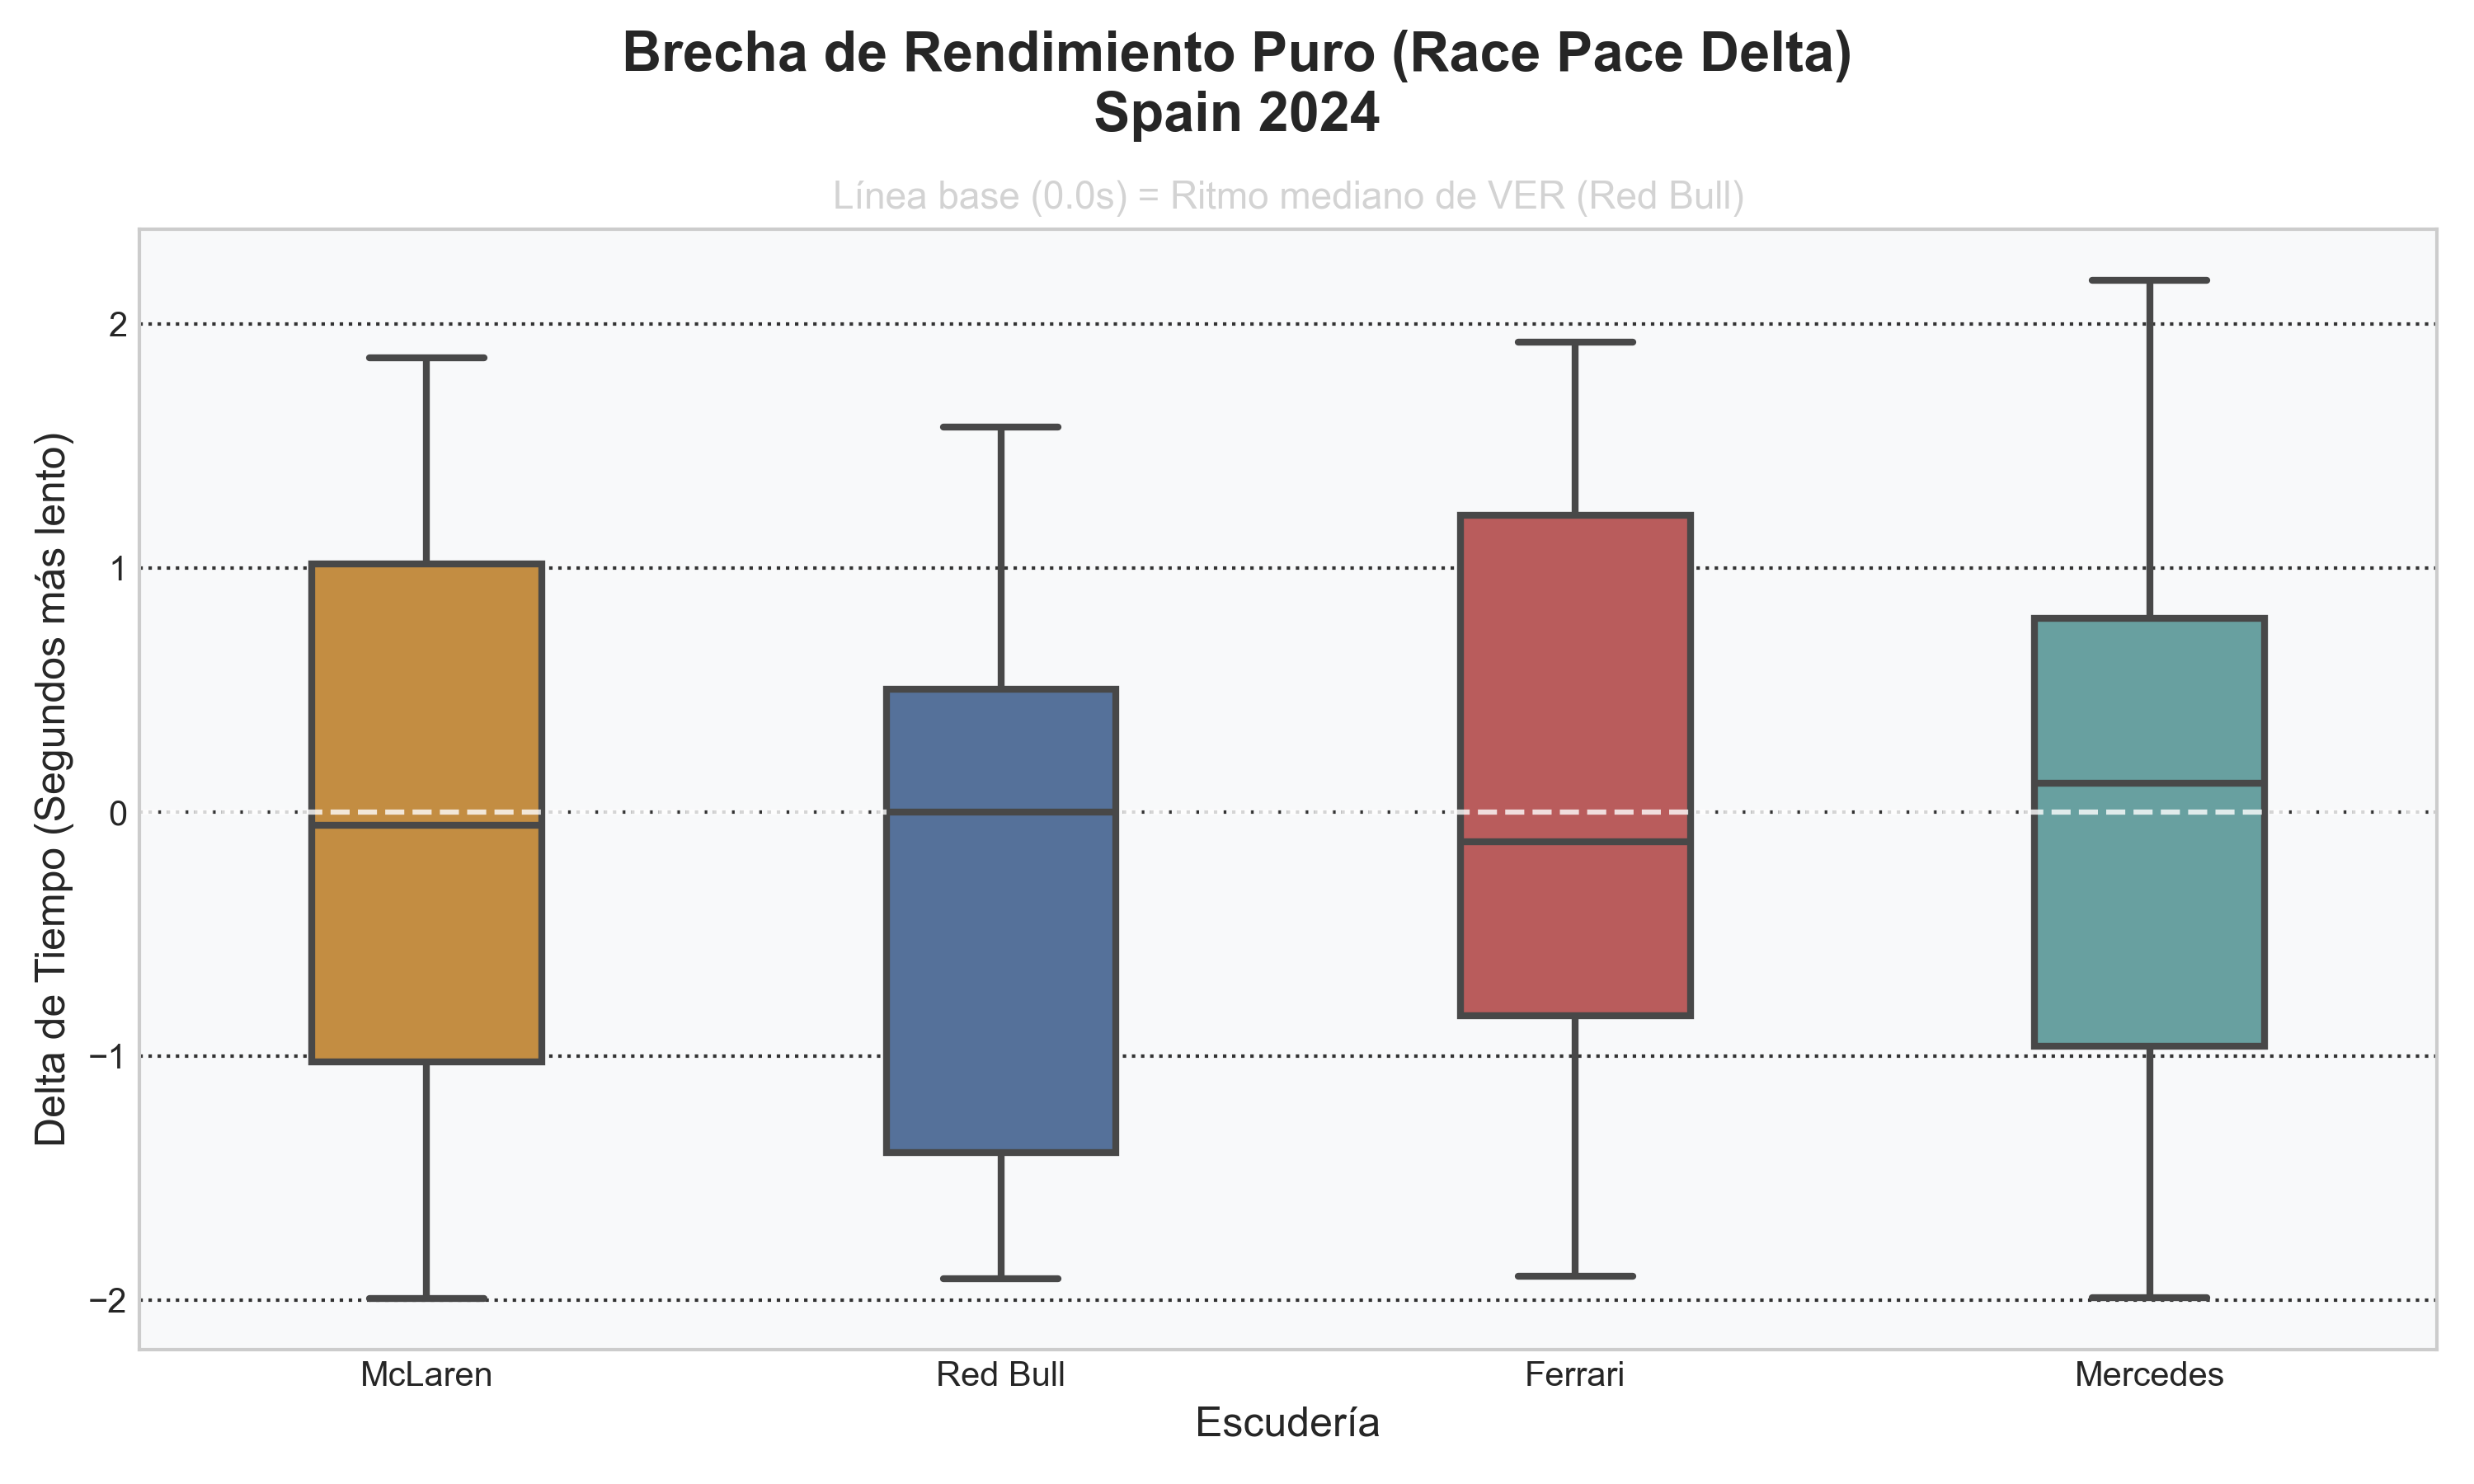
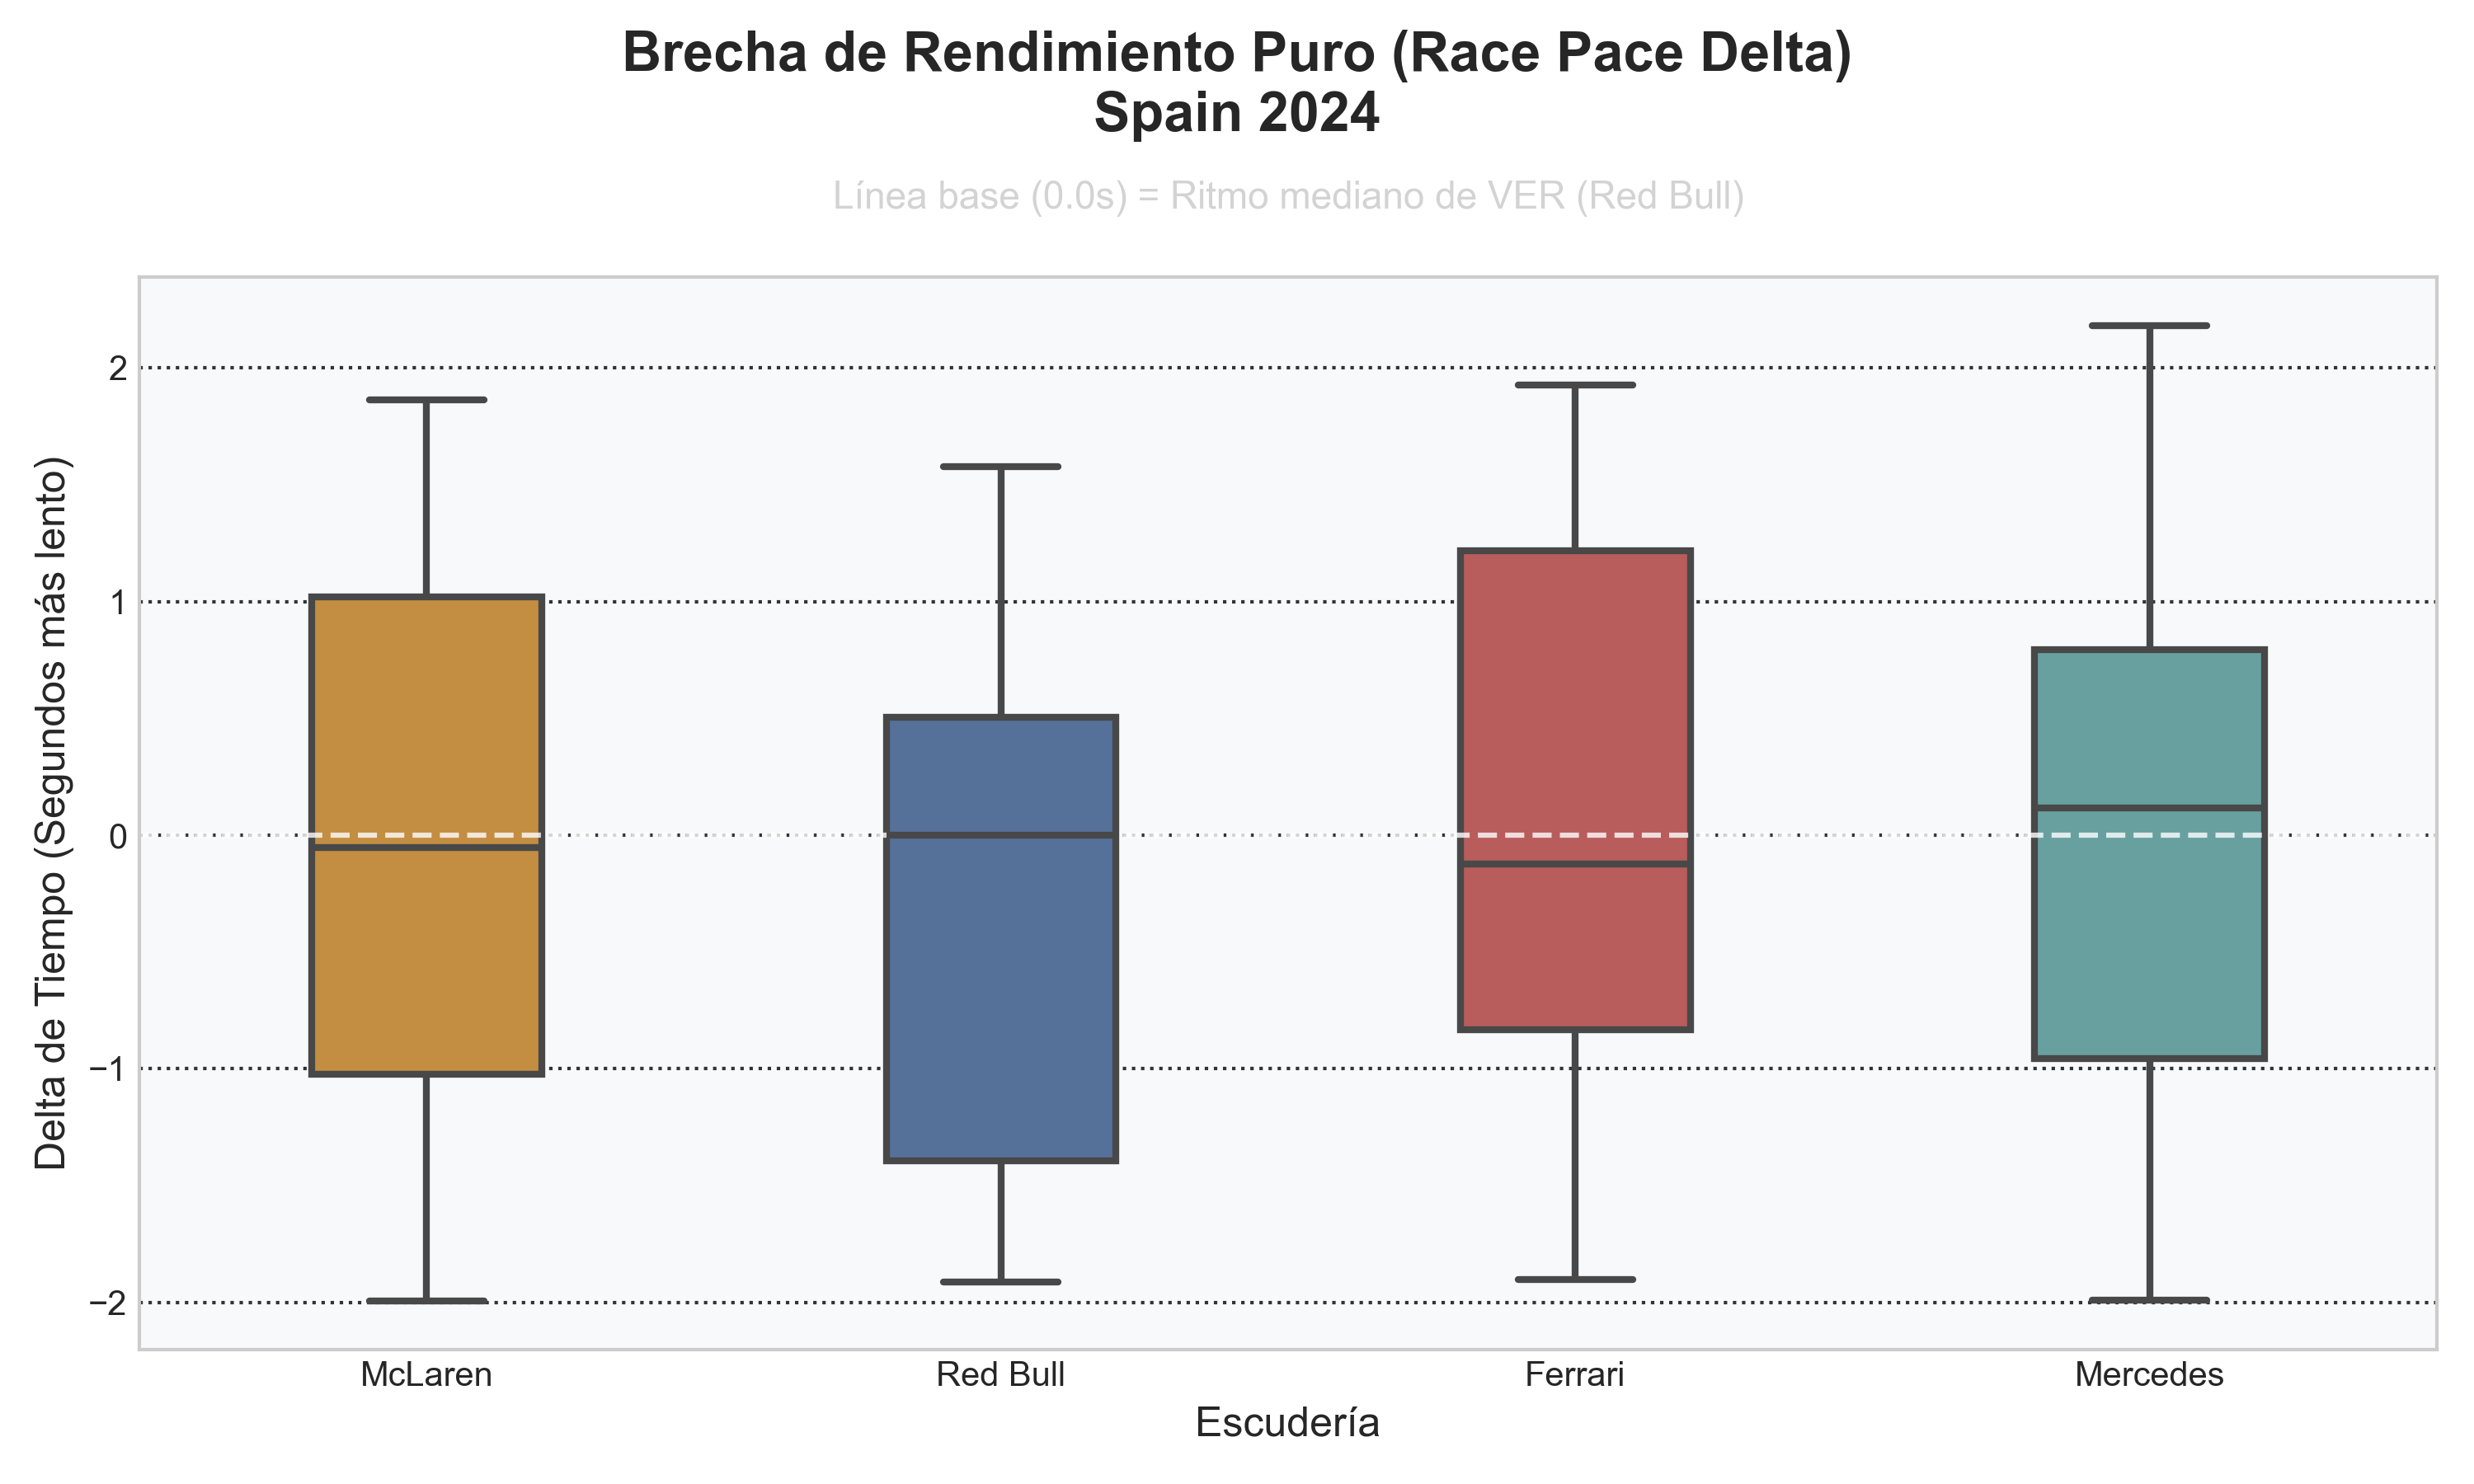
fix outlier

diff --git a/outlier_lluvia.py b/outlier_lluvia.py
@@ -1,0 +1,81 @@
+import fastf1
+import pandas as pd
+import matplotlib.pyplot as plt
+import seaborn as sns
+import os
+
+# Configuración
+plt.style.use('dark_background')
+cache_dir = './f1_cache'
+if not os.path.exists(cache_dir):
+    os.makedirs(cache_dir)
+fastf1.Cache.enable_cache(cache_dir)
+
+def generar_grafico_lluvia(año, gran_premio, piloto='NOR'):
+    print(f"[API] Analizando evento atípico (Lluvia): {año} {gran_premio} para {piloto}...")
+    
+    # 1. Cargar la sesión de carrera
+    session = fastf1.get_session(año, gran_premio, 'R')
+    session.load()
+    
+    # 2. Extraer vueltas del piloto
+    laps = session.laps.pick_drivers(piloto)
+    
+    # Filtro suave: Eliminamos vueltas de entrada/salida de pits, pero mantenemos todo lo demás
+    # porque en lluvia incluso las vueltas bajo Safety Car cuentan la historia del caos.
+    laps = laps[laps['PitOutTime'].isnull() & laps['PitInTime'].isnull()].copy()
+    
+    # Convertir tiempo a segundos para graficar
+    laps['LapTime_Sec'] = laps['LapTime'].dt.total_seconds()
+    
+    # 3. Colores oficiales para condiciones climáticas mixtas
+    colores_clima = {
+        'SOFT': '#FF3333',         # Rojo (Seco)
+        'MEDIUM': '#EAEA00',       # Amarillo (Seco)
+        'HARD': '#FFFFFF',         # Blanco (Seco)
+        'INTERMEDIATE': '#43B02A', # Verde (Lluvia Ligera)
+        'WET': '#0066FF'           # Azul (Lluvia Extrema)
+    }
+
+    # 4. Configurar Visualización
+    fig, ax = plt.subplots(figsize=(13, 7))
+    fig.suptitle(f"Análisis de Evento Atípico (Wet Race) - Adaptabilidad Estratégica\n{piloto} en {gran_premio} {año}", fontsize=16, fontweight='bold', y=0.98)
+    
+    # 5. Trazar la evolución del ritmo
+    # Usamos una línea continua gris de fondo para mostrar la tendencia
+    ax.plot(laps['LapNumber'], laps['LapTime_Sec'], color='gray', alpha=0.4, linewidth=1.5, zorder=1)
+    
+    # Superponemos los puntos de color según el neumático que llevaba puesto
+    sns.scatterplot(
+        data=laps, 
+        x='LapNumber', 
+        y='LapTime_Sec', 
+        hue='Compound', 
+        palette=colores_clima, 
+        s=80, 
+        edgecolor='white',
+        linewidth=0.5,
+        zorder=2,
+        ax=ax
+    )
+
+    # 6. Formato del gráfico
+    # Invertimos el eje Y para que los tiempos MÁS RÁPIDOS (números menores) estén ARRIBA
+    ax.invert_yaxis()
+    
+    ax.set_xlabel("Número de Vuelta", fontsize=12)
+    ax.set_ylabel("Tiempo por Vuelta (Segundos) -> Hacia arriba es más rápido", fontsize=12)
+    ax.grid(color='#333333', linestyle=':', linewidth=1)
+    
+    # Leyenda
+    ax.legend(title="Compuesto Usado", bbox_to_anchor=(1.02, 1), loc='upper left', frameon=True, facecolor='#111111')
+    
+    # Exportación
+    ruta = f"Outlier_Lluvia_{año}_{gran_premio}_{piloto}.png"
+    plt.tight_layout()
+    plt.savefig(ruta, dpi=300)
+    print(f"[OK] Gráfico de Outlier exportado a: {ruta}\n")
+    plt.close()
+
+if __name__ == '__main__':
+    generar_grafico_lluvia(2023, 'Netherlands', piloto='NOR')

diff --git a/boxplot_delta.py b/boxplot_delta.py
@@ -59,7 +59,7 @@ def generar_boxplot_delta(año, gran_premio, piloto_referencia='VER'):
     fig.patch.set_facecolor('white')      # Fondo blanco limpio
     ax.set_facecolor('#f8f9fa')           # Gris muy claro para los datos
     fig.suptitle(f"Brecha de Rendimiento Puro (Race Pace Delta)\n{gran_premio} {año}", fontsize=16, fontweight='bold')
-    ax.set_title(f"Línea base (0.0s) = Ritmo mediano de {piloto_referencia} ({nombres_equipos[piloto_referencia]})", fontsize=11, color='lightgray')
+    ax.set_title(f"Línea base (0.0s) = Ritmo mediano de {piloto_referencia} ({nombres_equipos[piloto_referencia]})", fontsize=11, color='lightgray', pad=20)
 
     # Trazar el Boxplot
     sns.boxplot(